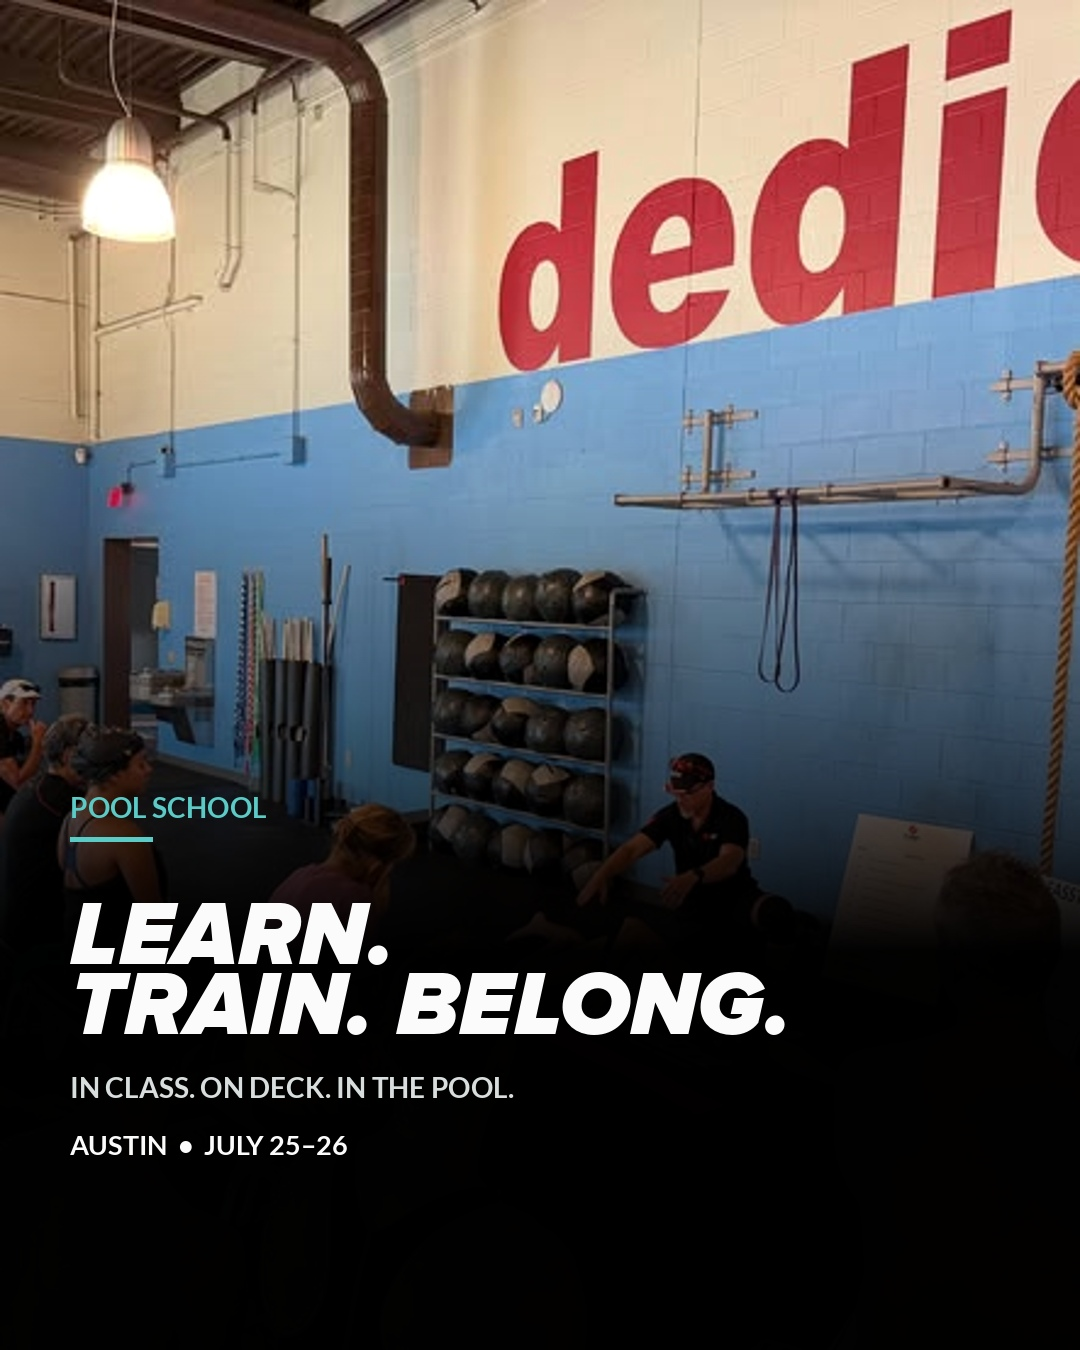
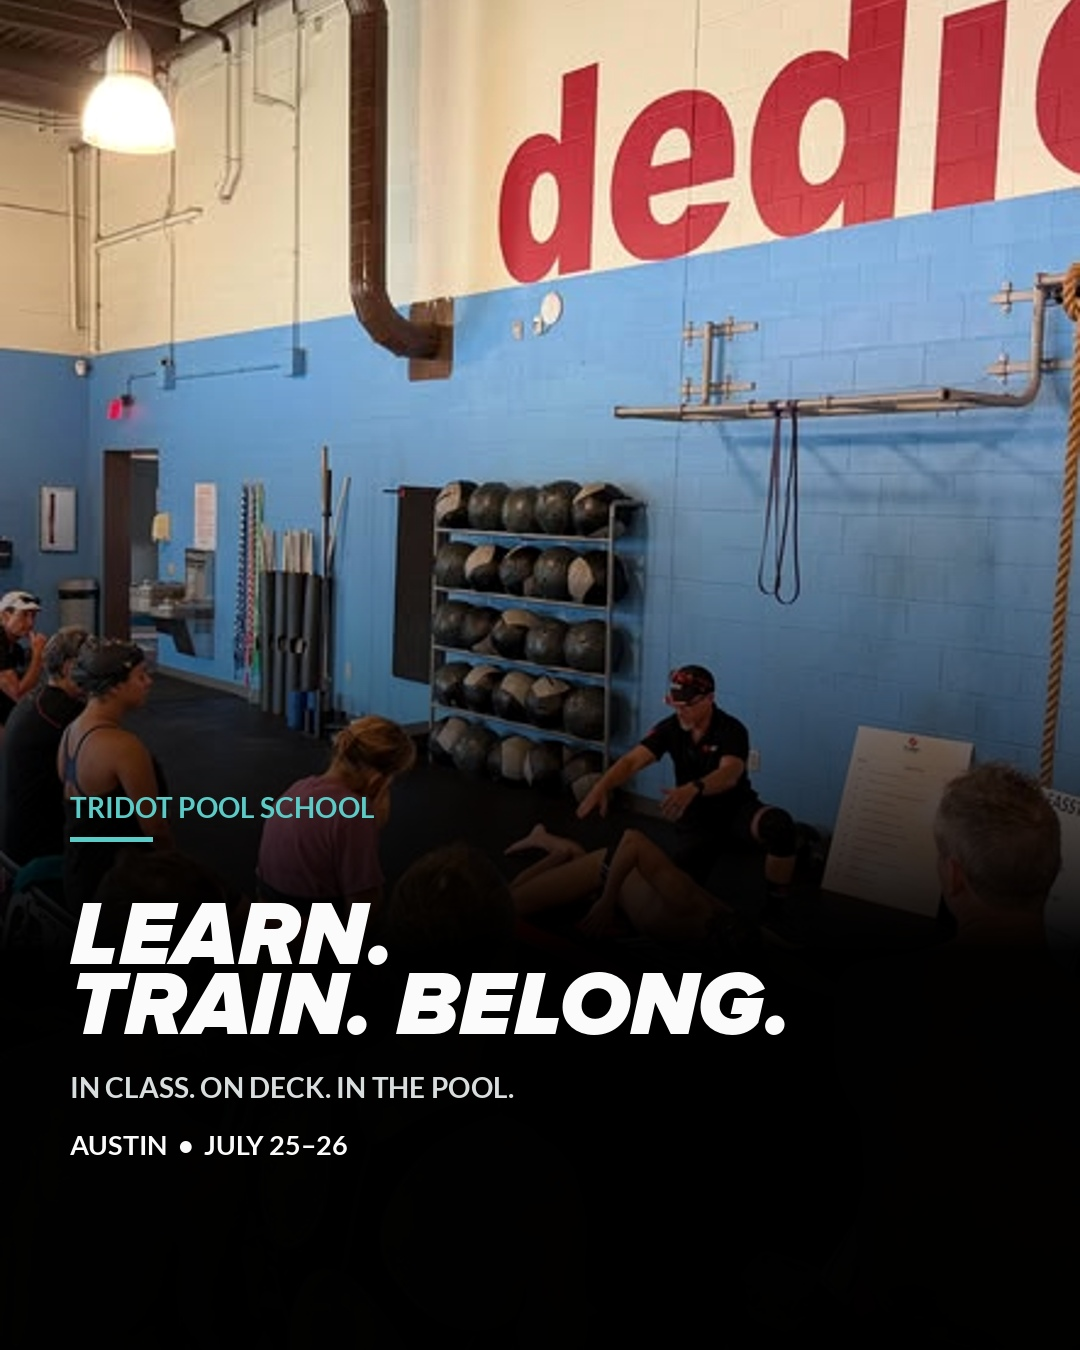
Apply Austin campaign feedback and update photo framing

diff --git a/austin-pool-school-review/index.html b/austin-pool-school-review/index.html
@@ -15,5 +15,5 @@ const posts=[
 ['08-detail-matters.jpg','VALUE','The details make the difference','Small technique changes can lead to meaningful progress. Get focused coaching and drills designed to help you apply it back in your own training.'],
 ['09-personal-feedback.jpg','VALUE','Real-time feedback','See it. Understand it. Practice it. Bring your swim questions to Austin and leave with practical tools for your next session.'],
 ['10-austin-register-now.jpg','EVENT PROMO','Austin Pool School: Register now','July 25–26, 2026 · Austin Aquatics and Sports Academy · $599\n\nYour next opportunity to break out of the dreaded swim plateau starts here. Register now.']
-];let i=0;const $=id=>document.getElementById(id);function render(){let p=posts[i];$('title').textContent=`Post ${i+1} of ${posts.length}`;$('graphic').src='./assets/'+p[0]+'?v=proxima-black-20260710';$('headline').textContent=p[2];$('caption').textContent=p[3];$('type').textContent=p[1];$('prev').disabled=i===0;$('next').disabled=i===posts.length-1;$('thumbs').innerHTML=posts.map((x,n)=>`<button class="thumb ${n===i?'active':''}" aria-label="View post ${n+1}" onclick="go(${n})"><img src="./assets/${x[0]}?v=proxima-black-20260710"></button>`).join('')};function go(n){i=n;render()}$('prev').onclick=()=>go(i-1);$('next').onclick=()=>go(i+1);document.addEventListener('keydown',e=>{if(e.key==='ArrowLeft'&&i)go(i-1);if(e.key==='ArrowRight'&&i<posts.length-1)go(i+1)});render();
+];let i=0;const $=id=>document.getElementById(id);function render(){let p=posts[i];$('title').textContent=`Post ${i+1} of ${posts.length}`;$('graphic').src='./assets/'+p[0]+'?v=feedback-revision-20260710';$('headline').textContent=p[2];$('caption').textContent=p[3];$('type').textContent=p[1];$('prev').disabled=i===0;$('next').disabled=i===posts.length-1;$('thumbs').innerHTML=posts.map((x,n)=>`<button class="thumb ${n===i?'active':''}" aria-label="View post ${n+1}" onclick="go(${n})"><img src="./assets/${x[0]}?v=feedback-revision-20260710"></button>`).join('')};function go(n){i=n;render()}$('prev').onclick=()=>go(i-1);$('next').onclick=()=>go(i+1);document.addEventListener('keydown',e=>{if(e.key==='ArrowLeft'&&i)go(i-1);if(e.key==='ArrowRight'&&i<posts.length-1)go(i+1)});render();
 </script></body></html>
